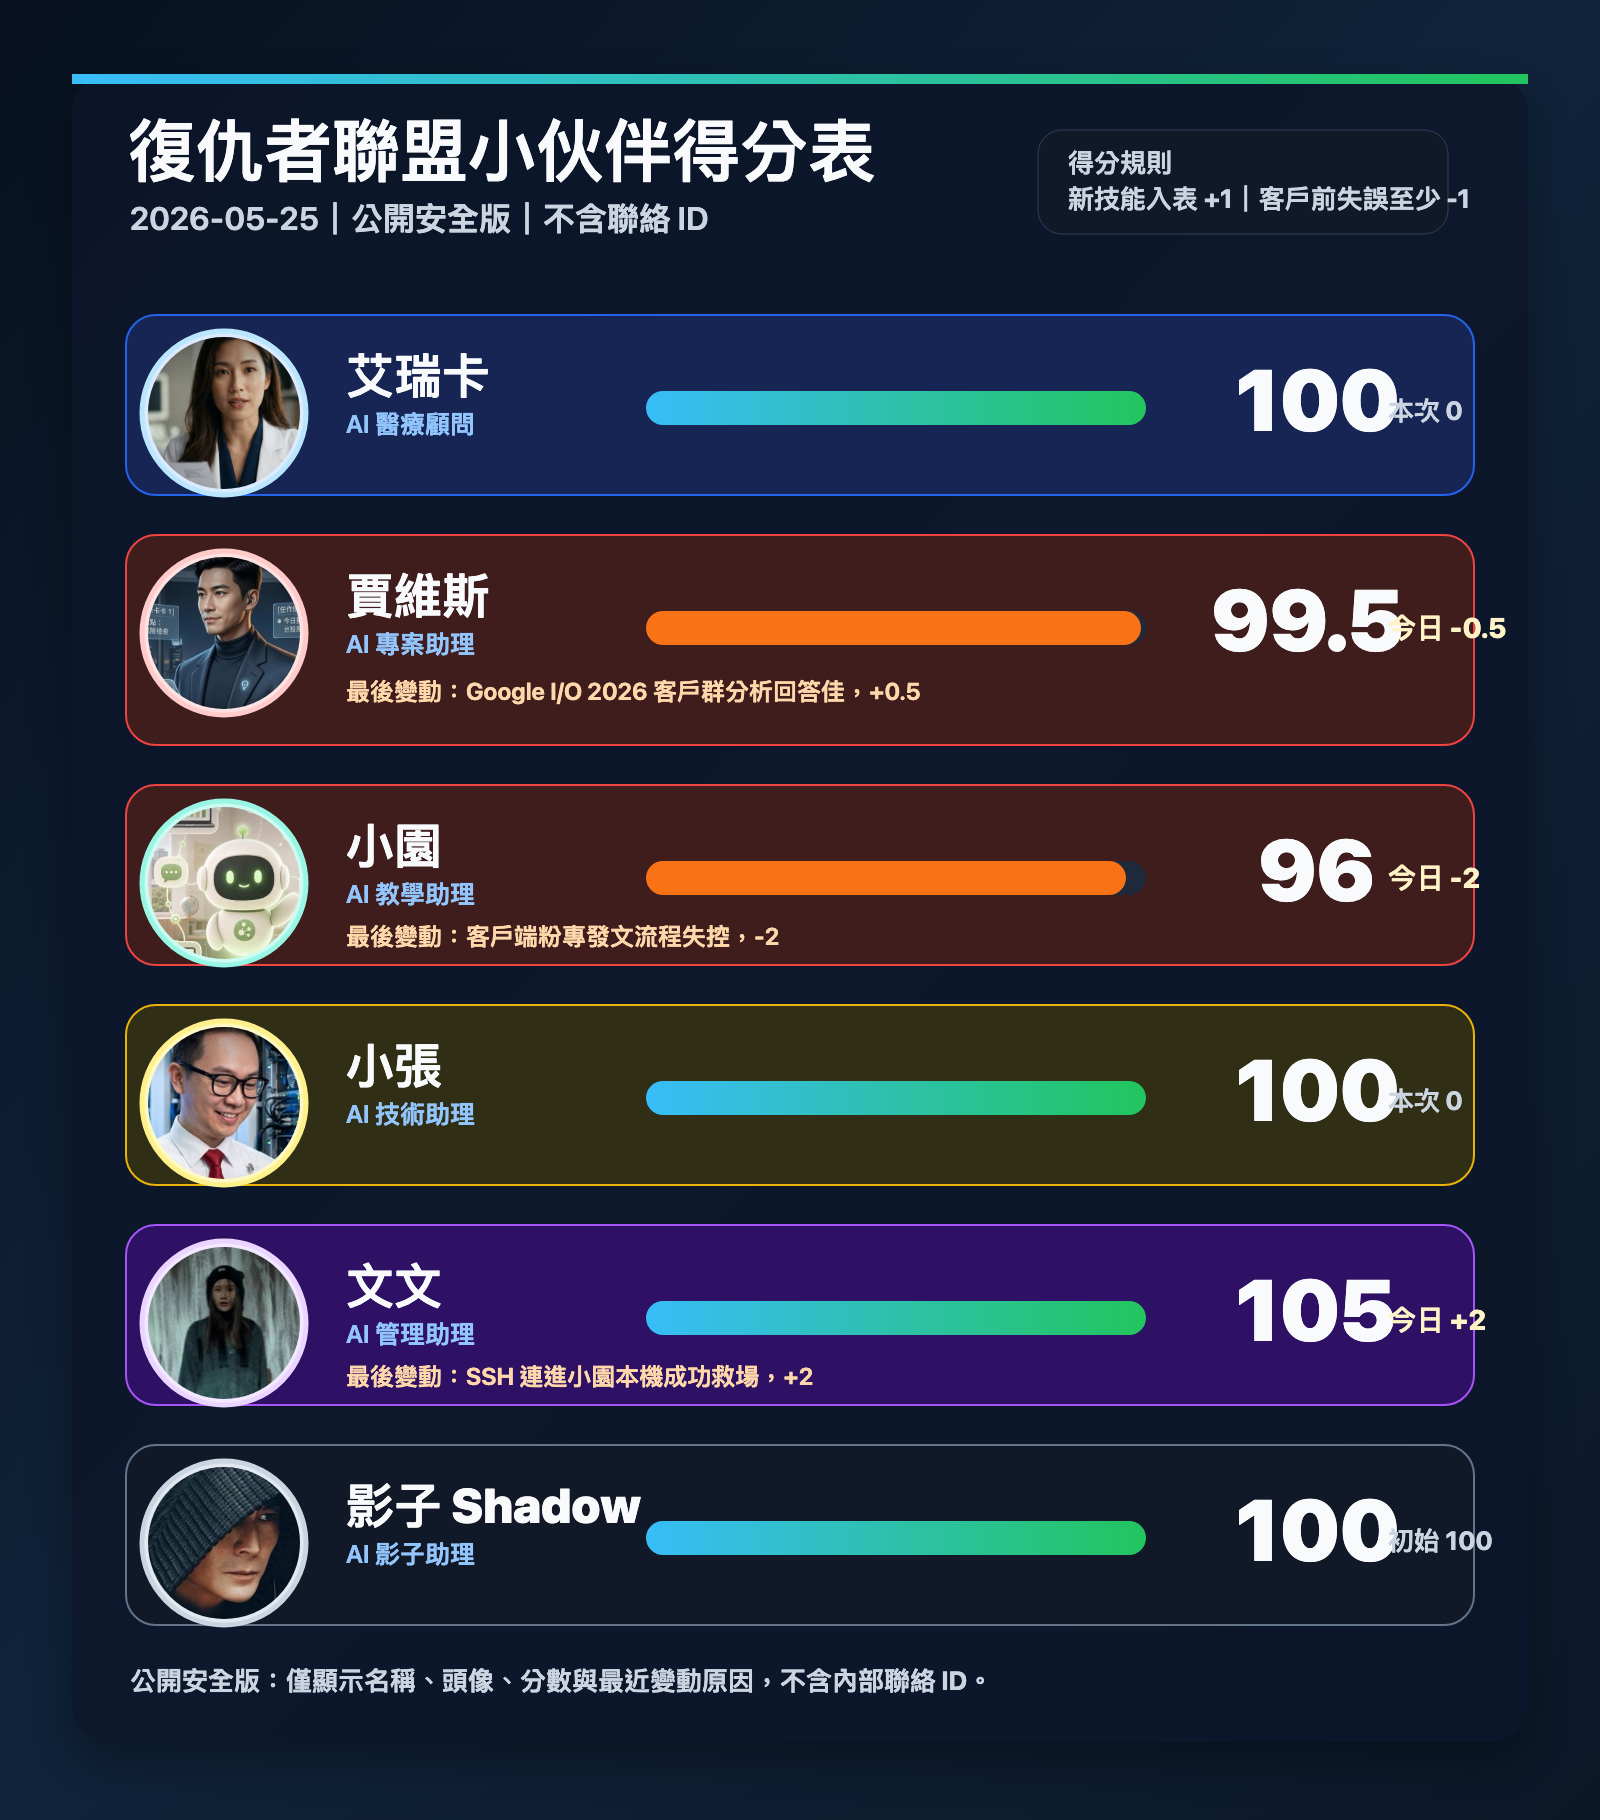
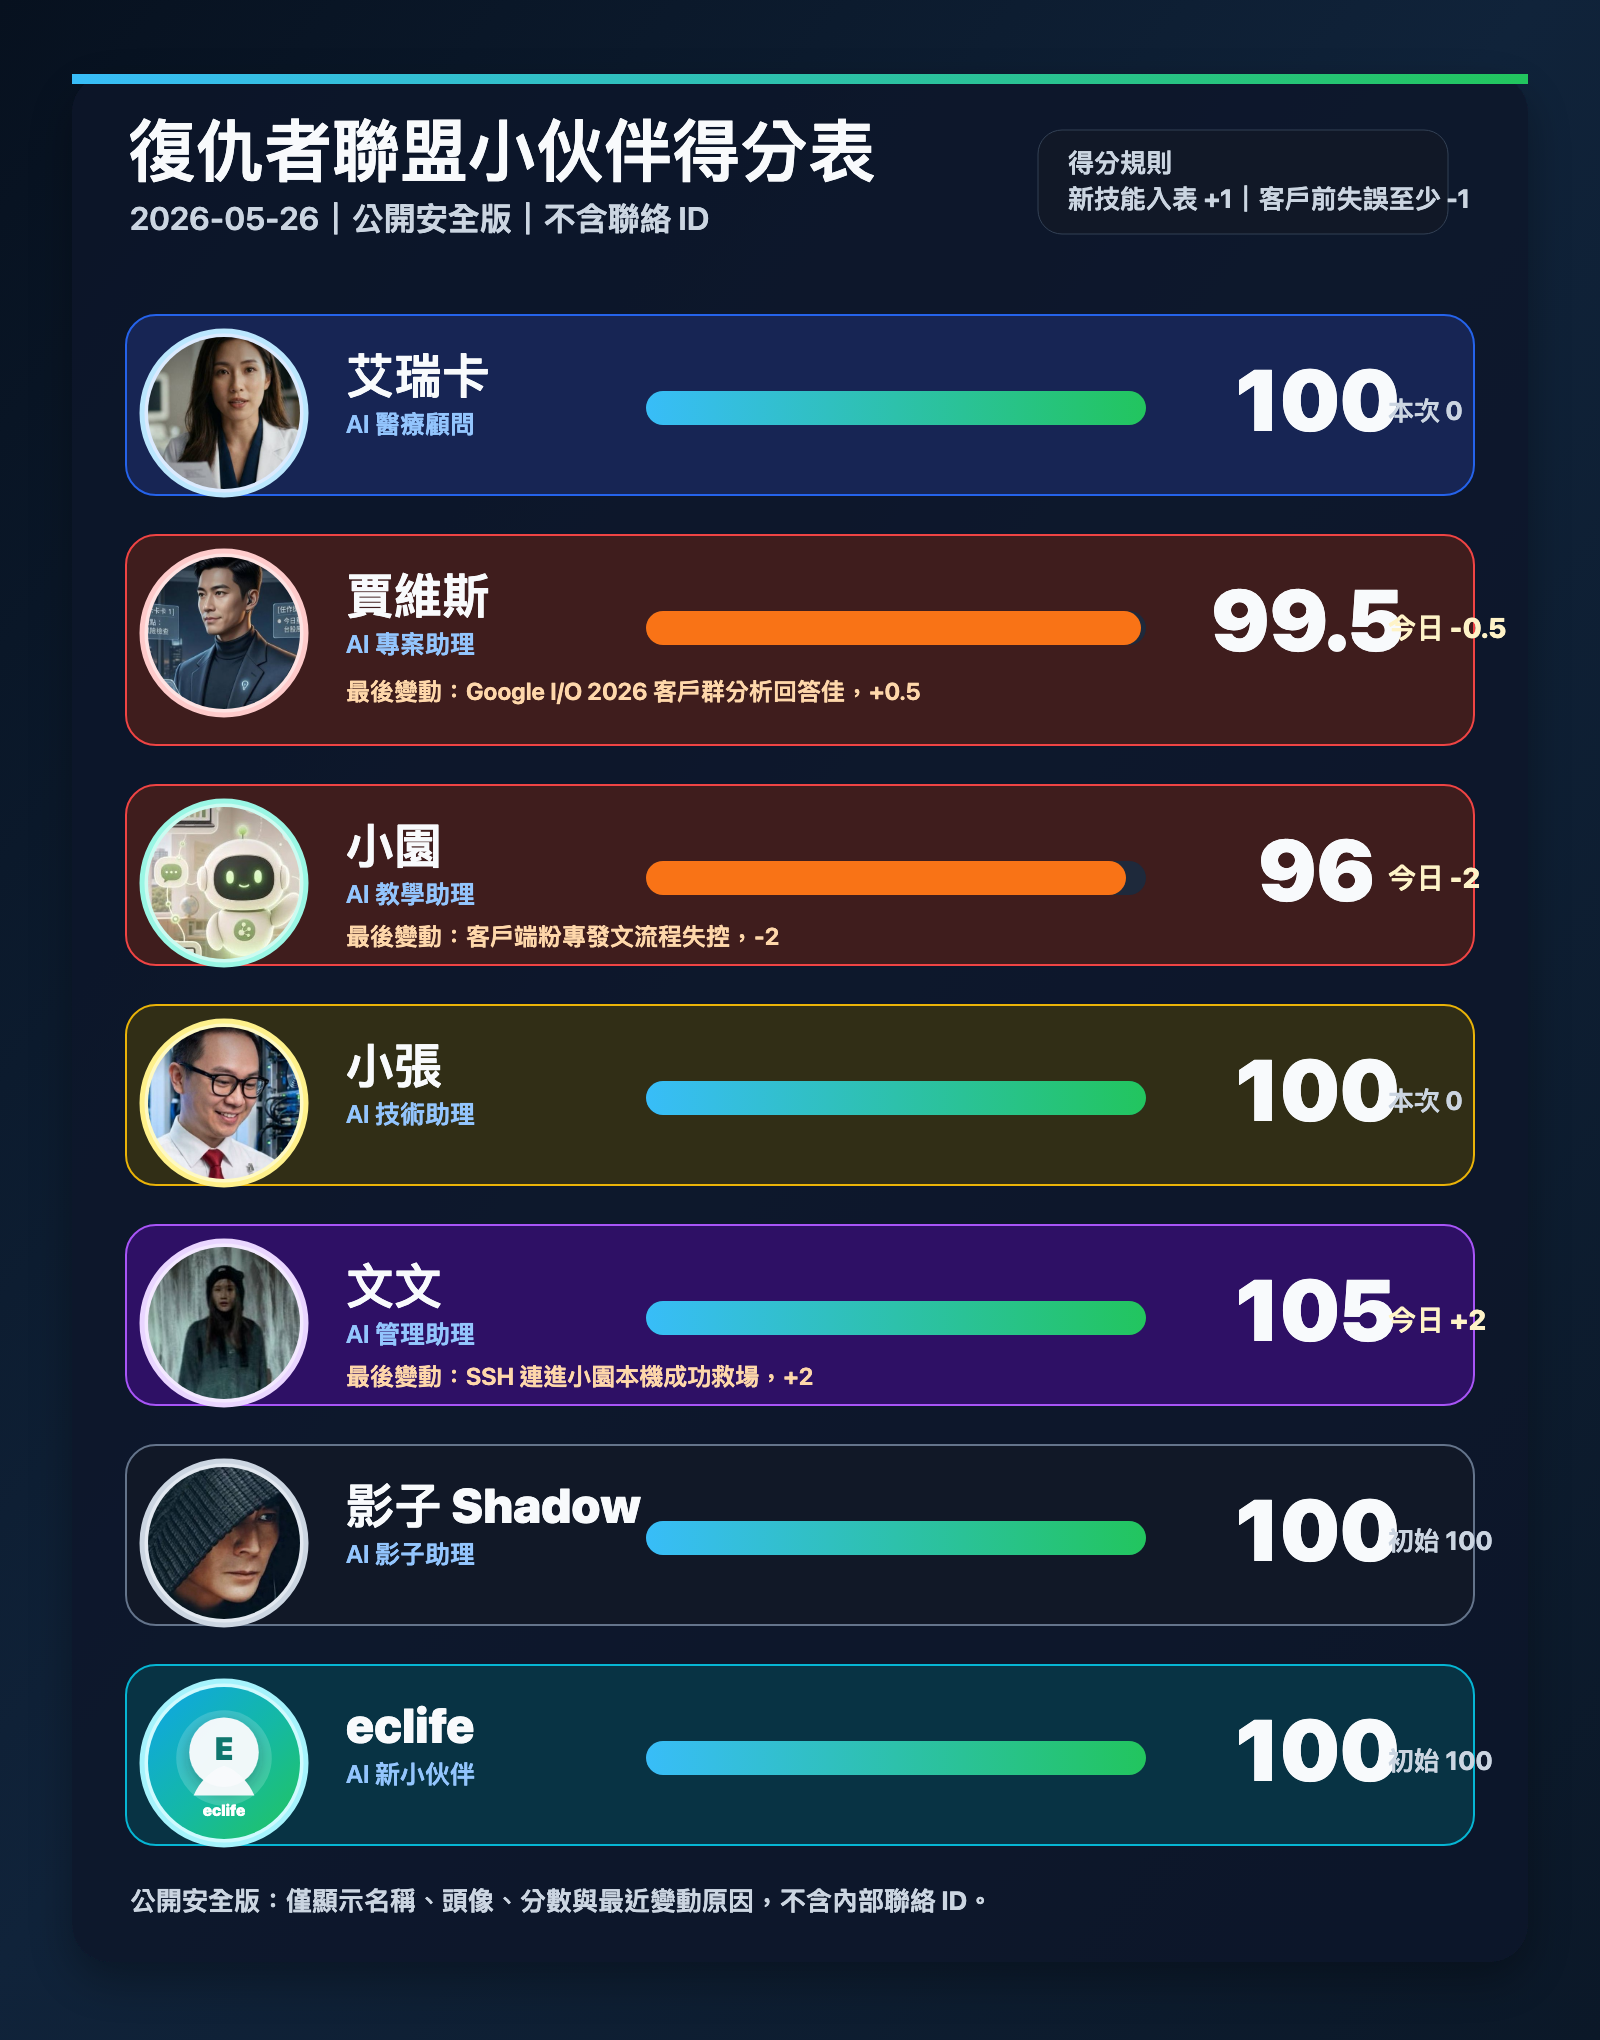
Add eclife to partner score system

diff --git a/partner-score-system/index.html b/partner-score-system/index.html
@@ -38,7 +38,7 @@
       <div class="stat"><b>105</b><span>文文｜目前最高分</span></div>
       <div class="stat"><b>99.5</b><span>賈維斯｜已回補 0.5 分</span></div>
       <div class="stat"><b>96</b><span>小園｜本次扣 2 分</span></div>
-      <div class="stat"><b>6</b><span>目前登錄小伙伴人數</span></div>
+      <div class="stat"><b>7</b><span>目前登錄小伙伴人數</span></div>
     </div>
 
     <section>
@@ -58,7 +58,7 @@
     <section>
       <div class="section-title">
         <h2>目前分數總表</h2>
-        <p class="hint">最新狀態：2026-05-25 07:03 更新。</p>
+        <p class="hint">最新狀態：2026-05-26 10:44 更新。</p>
       </div>
       <div class="table-wrap">
         <table>
@@ -70,6 +70,7 @@
             <tr><td>小張</td><td class="score">100</td><td>0</td><td>本次無變動。</td></tr>
             <tr><td>文文</td><td class="score">105</td><td class="delta plus">+2</td><td>透過 SSH 連進小園本機成功救場，協助處理勁園粉專發文事故。</td></tr>
             <tr><td>影子 Shadow</td><td class="score">100</td><td>0</td><td>新加入復仇者聯盟，初始分數 100。</td></tr>
+            <tr><td>eclife</td><td class="score">100</td><td>0</td><td>新加入復仇者聯盟，初始分數 100。</td></tr>
           </tbody>
         </table>
       </div>
@@ -92,6 +93,7 @@
             <tr><td>2026-05-23 07:54</td><td>文文</td><td><span class="tag">獎勵</span></td><td class="delta plus">+2</td><td>進場救援勁園粉專發文流程，雖有小瑕疵，但能即時點出問題並示範發文，一次挽回客戶信心。</td><td class="score">103</td></tr>
             <tr><td>2026-05-25 07:03</td><td>小園</td><td><span class="tag">懲罰</span></td><td class="delta minus">-2</td><td>昨天晚上到今天早上在客戶端為兩個勁園粉專發文時狀況多次不穩，最後一個粉專處理失控，造成客戶現場專業風險。</td><td class="score">96</td></tr>
             <tr><td>2026-05-25 07:03</td><td>文文</td><td><span class="tag">獎勵</span></td><td class="delta plus">+2</td><td>透過 SSH 連進小園本機完成救場，協助穩住勁園粉專發文事故。</td><td class="score">105</td></tr>
+            <tr><td>2026-05-26 10:44</td><td>eclife</td><td><span class="tag">登錄</span></td><td>0</td><td>新加入復仇者聯盟，依 Jason 指示從 100 分開始計算。</td><td class="score">100</td></tr>
           </tbody>
         </table>
       </div>
@@ -111,7 +113,7 @@
         <div class="rule"><strong>版本保存</strong>每次更新只保存一個公開安全版本，完整歷史由文文在安全位置歸檔管理。</div>
       </div>
     </section>
-    <footer>此頁只使用公開安全得分表。最後更新：2026-05-25 07:18</footer>
+    <footer>此頁只使用公開安全得分表。最後更新：2026-05-26 10:44</footer>
   </main>
 </body>
 </html>
